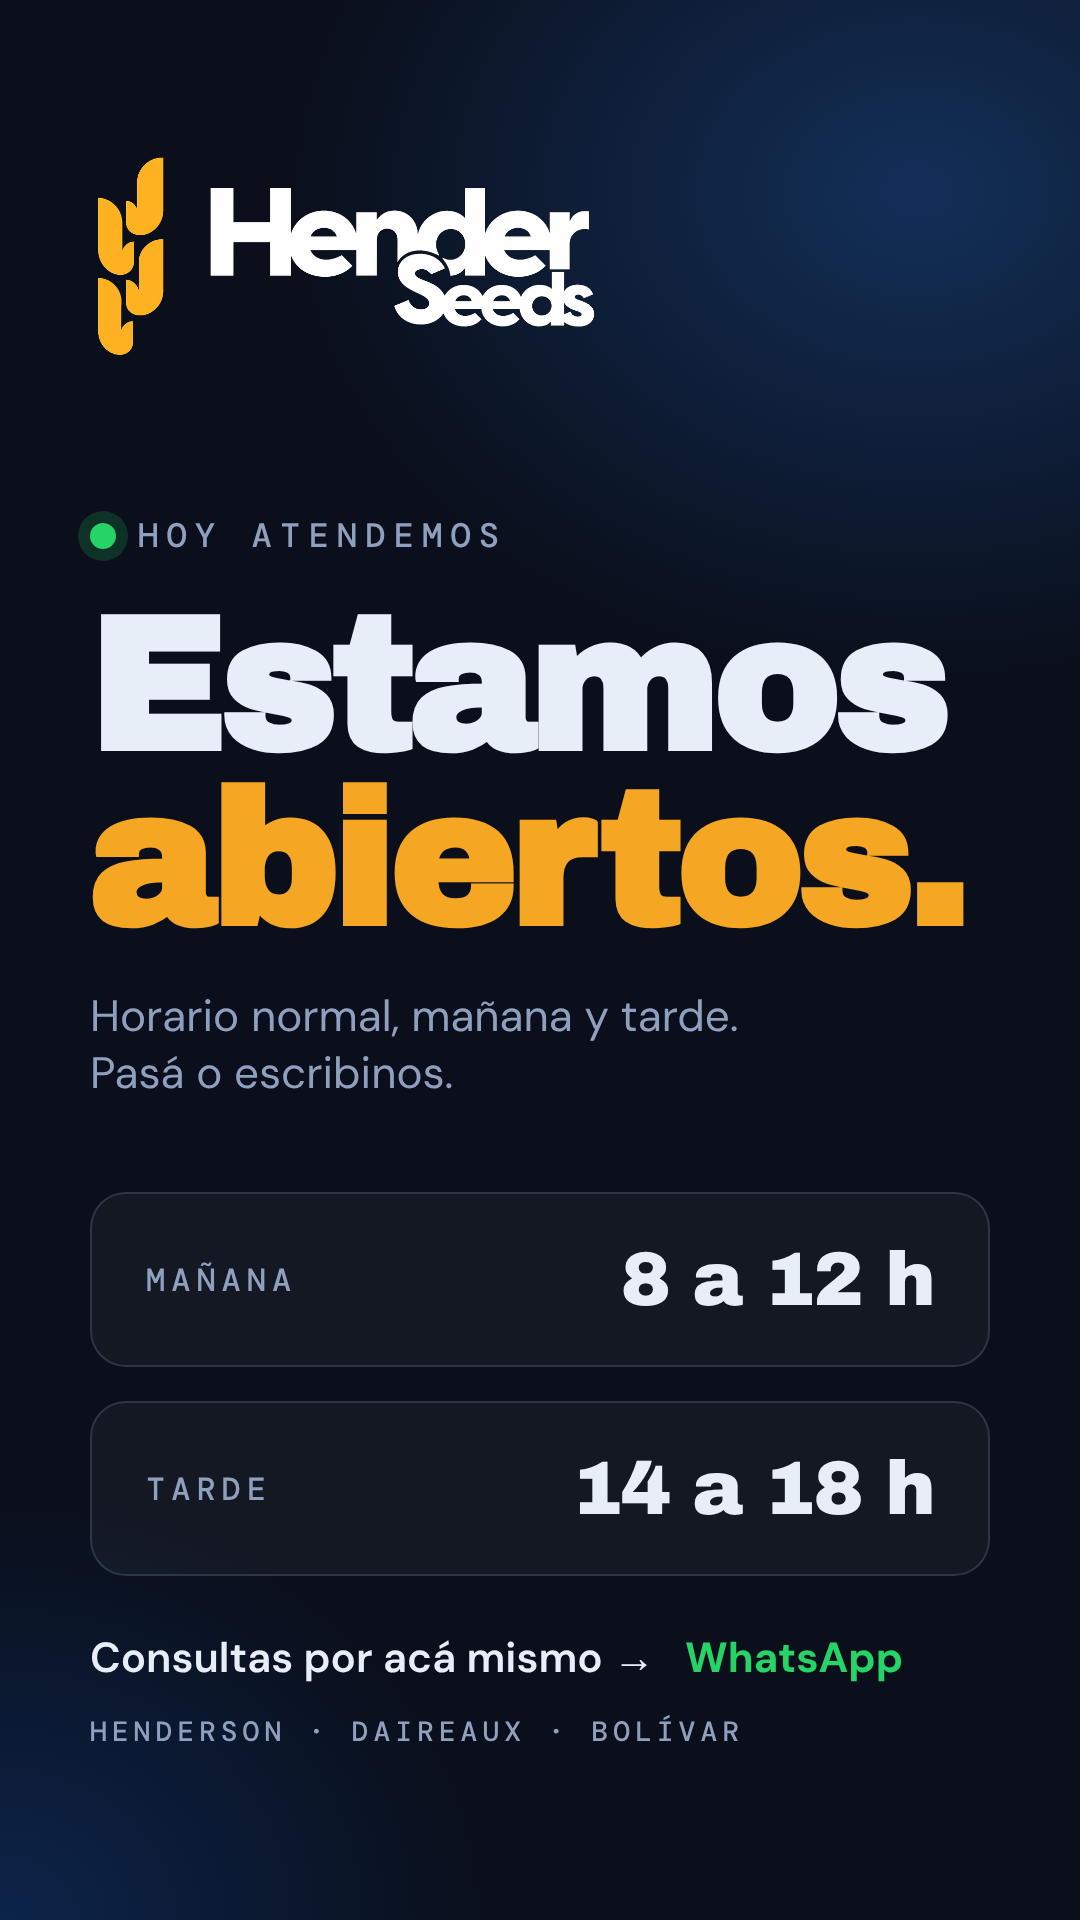
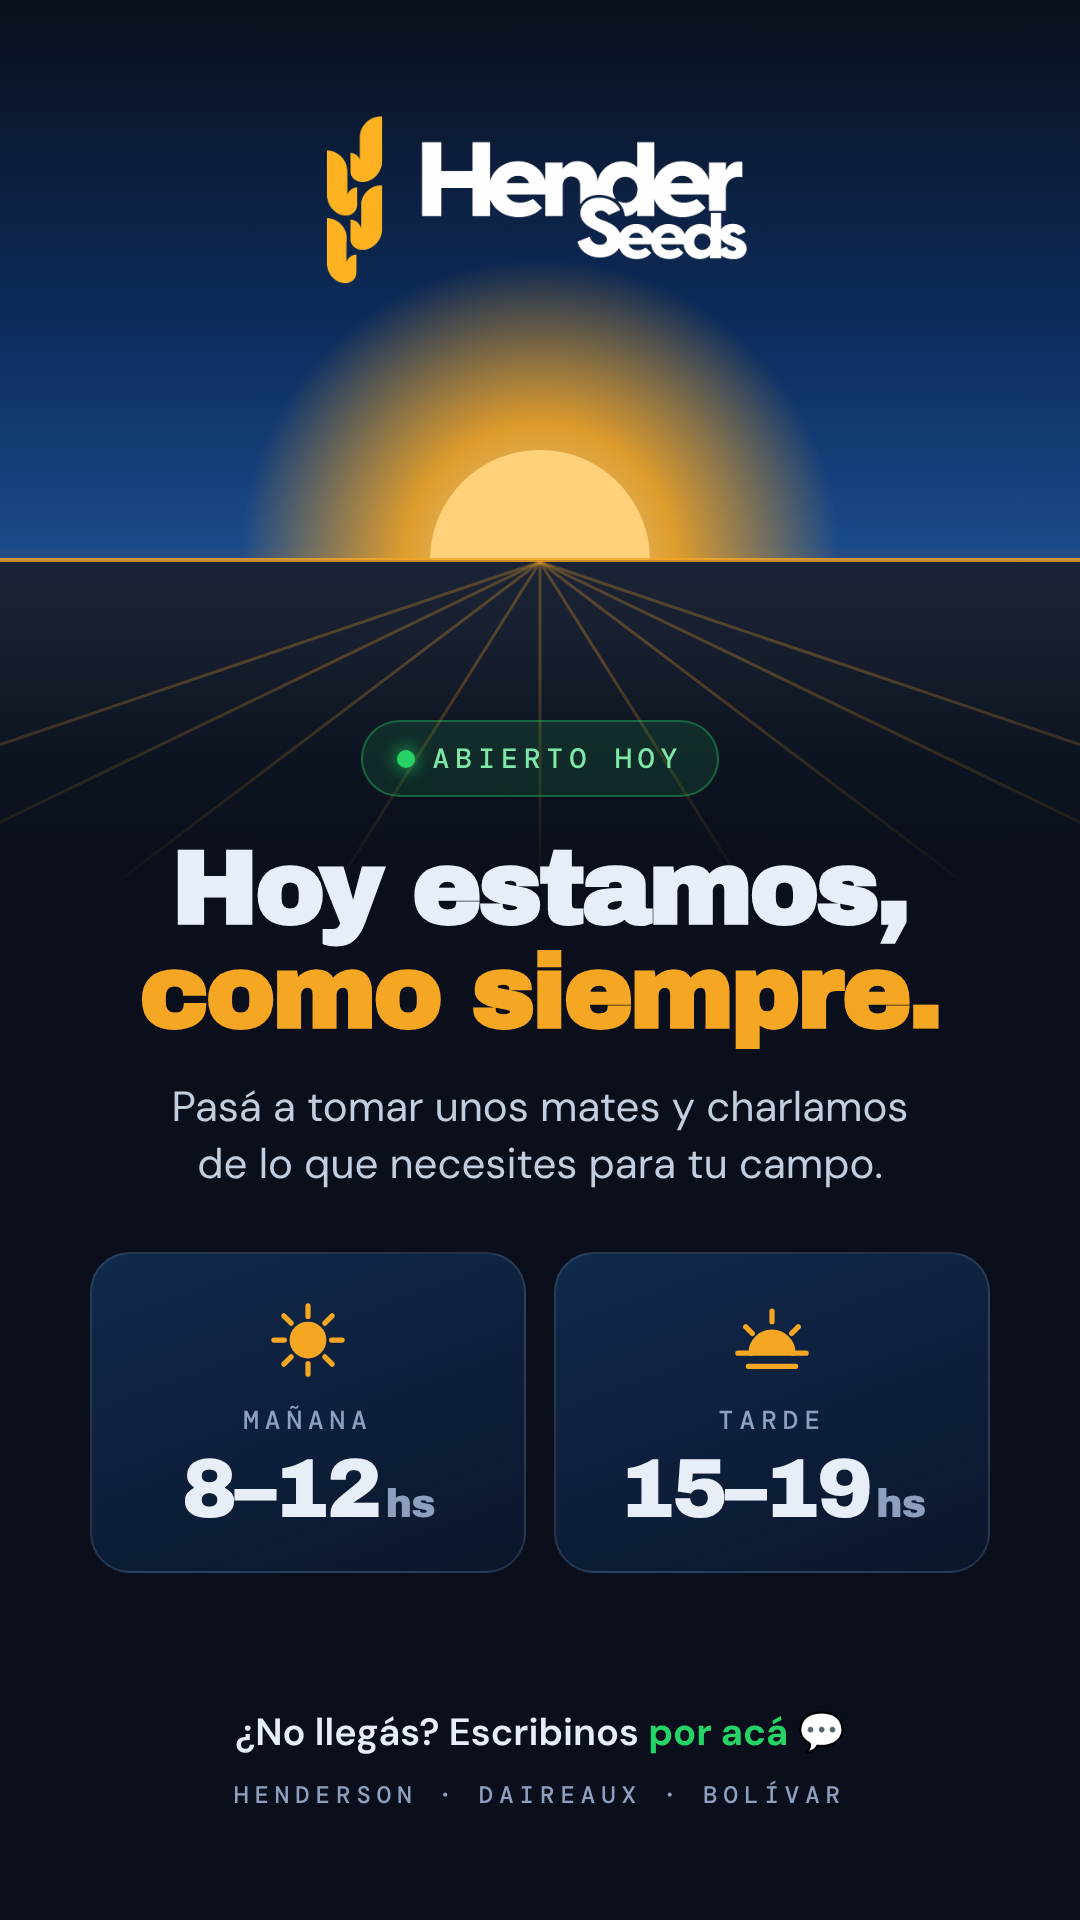
Estado WhatsApp abierto hoy: rediseño + horario 8-12 / 15-19
Claude-Session: https://claude.ai/code/session_01NuVoX9caxrULm3zTXrw5iY

diff --git a/estados/2026-11-11-abierto-hoy.html b/estados/2026-11-11-abierto-hoy.html
@@ -1,37 +1,80 @@
 <!doctype html>
 <html lang="es"><head><meta charset="utf-8">
 <title>Estado WhatsApp — Abierto hoy</title>
-<link href="https://fonts.googleapis.com/css2?family=Archivo+Black&family=DM+Mono:wght@500&family=DM+Sans:wght@400;600;700&display=swap" rel="stylesheet">
+<link href="https://fonts.googleapis.com/css2?family=Archivo+Black&family=DM+Mono:wght@500&family=DM+Sans:wght@400;500;600;700&display=swap" rel="stylesheet">
 <style>
-/* EDITAR HORARIOS ACÁ */
-:root{--bg:#0A0F1B;--navy:#0D2D5E;--mid:#1A4A8A;--amb:#F5A623;--tx:#E8EEF7;--tx2:#8FA0BE;--wa:#25D366}
+:root{--bg:#0A0F1B;--navy:#0D2D5E;--amb:#F5A623;--yel:#F59E0B;--tx:#E8EEF7;--tx2:#8FA0BE;--wa:#25D366}
 *{margin:0;padding:0;box-sizing:border-box}
 body{width:1080px;height:1920px;background:var(--bg);color:var(--tx);font-family:'DM Sans',sans-serif;overflow:hidden;position:relative}
-.glow{position:absolute;inset:0;background:radial-gradient(900px 700px at 85% 10%,rgba(26,74,138,.55),transparent 70%),radial-gradient(700px 600px at 0% 100%,rgba(13,45,94,.7),transparent 70%)}
-.wrap{position:relative;height:100%;display:flex;flex-direction:column;padding:150px 90px 170px}
-.logo{width:520px;}
-.tag{margin-top:150px;font-family:'DM Mono',monospace;font-size:34px;letter-spacing:8px;text-transform:uppercase;color:var(--tx2);display:flex;align-items:center;gap:22px}
-.dot{width:26px;height:26px;border-radius:50%;background:var(--wa);box-shadow:0 0 0 12px rgba(37,211,102,.18)}
-h1{font-family:'Archivo Black',sans-serif;font-size:190px;line-height:.92;letter-spacing:-6px;margin-top:40px}
+.scene{position:absolute;left:0;top:0;width:1080px;height:880px}
+.fade{position:absolute;left:0;top:660px;width:1080px;height:240px;background:linear-gradient(to bottom,rgba(10,15,27,0),var(--bg))}
+.logo{position:absolute;top:110px;left:50%;transform:translateX(-50%);width:440px}
+.content{position:absolute;left:0;right:0;top:720px;padding:0 90px;text-align:center}
+.pill{display:inline-flex;align-items:center;gap:18px;padding:18px 34px;border-radius:999px;background:rgba(37,211,102,.12);border:2px solid rgba(37,211,102,.35);font-family:'DM Mono',monospace;font-size:28px;letter-spacing:6px;text-transform:uppercase;color:#7EE8A8}
+.pill i{width:18px;height:18px;border-radius:50%;background:var(--wa);box-shadow:0 0 18px var(--wa)}
+h1{font-family:'Archivo Black',sans-serif;font-size:104px;line-height:1;letter-spacing:-3px;margin-top:40px}
 h1 span{color:var(--amb)}
-.sub{font-size:44px;color:var(--tx2);margin-top:40px;line-height:1.3}
-.turnos{margin-top:90px;display:flex;flex-direction:column;gap:34px}
-.t{background:rgba(255,255,255,.04);border:2px solid rgba(143,160,190,.22);border-radius:36px;padding:44px 54px;display:flex;justify-content:space-between;align-items:center}
-.t .l{font-family:'DM Mono',monospace;font-size:32px;letter-spacing:6px;text-transform:uppercase;color:var(--tx2)}
-.t .h{font-family:'Archivo Black',sans-serif;font-size:76px;letter-spacing:-2px}
-.cta{margin-top:auto;display:flex;align-items:center;gap:30px;font-size:42px;font-weight:600}
-.cta b{color:var(--wa)}
-.loc{font-family:'DM Mono',monospace;font-size:28px;letter-spacing:5px;color:var(--tx2);text-transform:uppercase;margin-top:28px}
-</style></head><body><div class="glow"></div>
-<div class="wrap">
-  <img class="logo" src="_logo.png" alt="Henderseeds">
-  <div class="tag"><i class="dot"></i>Hoy atendemos</div>
-  <h1>Estamos<br><span>abiertos.</span></h1>
-  <p class="sub">Horario normal, mañana y tarde.<br>Pasá o escribinos.</p>
-  <div class="turnos">
-    <div class="t"><span class="l">Mañana</span><span class="h">8 a 12 h</span></div>
-    <div class="t"><span class="l">Tarde</span><span class="h">14 a 18 h</span></div>
+.sub{font-size:42px;line-height:1.35;color:#C3CEE0;margin-top:34px}
+.hours{margin-top:60px;display:grid;grid-template-columns:1fr 1fr;gap:28px}
+.h{border-radius:40px;padding:44px 20px 40px;background:linear-gradient(160deg,rgba(26,74,138,.45),rgba(13,45,94,.25));border:2px solid rgba(143,160,190,.2)}
+.h svg{width:84px;height:84px}
+.h .l{font-family:'DM Mono',monospace;font-size:26px;letter-spacing:6px;text-transform:uppercase;color:var(--tx2);margin-top:16px}
+.h .t{font-family:'Archivo Black',sans-serif;font-size:84px;letter-spacing:-3px;margin-top:10px;line-height:1}
+.h .t small{font-size:40px;letter-spacing:-1px;color:var(--tx2);margin-left:6px}
+.foot{position:absolute;left:0;right:0;bottom:110px;text-align:center}
+.foot p{font-size:38px;font-weight:600}
+.foot p b{color:var(--wa)}
+.foot .loc{font-family:'DM Mono',monospace;font-size:24px;letter-spacing:6px;text-transform:uppercase;color:var(--tx2);margin-top:22px}
+</style></head><body>
+
+<svg class="scene" viewBox="0 0 1080 880" preserveAspectRatio="none">
+  <defs>
+    <linearGradient id="sky" x1="0" y1="0" x2="0" y2="1">
+      <stop offset="0" stop-color="#0A0F1B"/><stop offset=".38" stop-color="#0D2D5E"/>
+      <stop offset=".62" stop-color="#1A4A8A"/><stop offset=".8" stop-color="#C9792A"/>
+      <stop offset=".9" stop-color="#F5A623"/>
+    </linearGradient>
+    <radialGradient id="sun" cx=".5" cy=".5" r=".5">
+      <stop offset="0" stop-color="#FFE3A3"/><stop offset=".45" stop-color="#F5A623"/><stop offset="1" stop-color="#F5A623" stop-opacity="0"/>
+    </radialGradient>
+    <linearGradient id="field" x1="0" y1="0" x2="0" y2="1">
+      <stop offset="0" stop-color="#1B2436"/><stop offset="1" stop-color="#0A0F1B"/>
+    </linearGradient>
+  </defs>
+  <rect width="1080" height="880" fill="url(#sky)"/>
+  <circle cx="540" cy="560" r="300" fill="url(#sun)" opacity=".9"/>
+  <circle cx="540" cy="560" r="110" fill="#FFD27A"/>
+  <path d="M0 560 L1080 560 L1080 880 L0 880 Z" fill="url(#field)"/>
+  <rect x="0" y="558" width="1080" height="4" fill="#F5A623" opacity=".8"/>
+  <g stroke="#F5A623" stroke-opacity=".28" stroke-width="3" fill="none">
+    <path d="M540 562 L-400 880"/><path d="M540 562 L-120 880"/><path d="M540 562 L120 880"/>
+    <path d="M540 562 L340 880"/><path d="M540 562 L540 880"/><path d="M540 562 L740 880"/>
+    <path d="M540 562 L960 880"/><path d="M540 562 L1200 880"/><path d="M540 562 L1480 880"/>
+  </g>
+</svg>
+<div class="fade"></div>
+<img class="logo" src="_logo.png" alt="Henderseeds">
+
+<div class="content">
+  <div class="pill"><i></i>Abierto hoy</div>
+  <h1>Hoy estamos,<br><span>como siempre.</span></h1>
+  <p class="sub">Pasá a tomar unos mates y charlamos<br>de lo que necesites para tu campo.</p>
+  <div class="hours">
+    <div class="h">
+      <svg viewBox="0 0 64 64" fill="none" stroke="#F5A623" stroke-width="4" stroke-linecap="round"><circle cx="32" cy="32" r="12" fill="#F5A623"/><path d="M32 6v8M32 50v8M6 32h8M50 32h8M13.6 13.6l5.6 5.6M44.8 44.8l5.6 5.6M13.6 50.4l5.6-5.6M44.8 19.2l5.6-5.6"/></svg>
+      <div class="l">Mañana</div>
+      <div class="t">8–12<small>hs</small></div>
+    </div>
+    <div class="h">
+      <svg viewBox="0 0 64 64" fill="none" stroke="#F5A623" stroke-width="4" stroke-linecap="round"><path d="M16 42a16 16 0 0 1 32 0" fill="#F5A623"/><path d="M6 42h52M14 52h36M32 10v8M12 22l5 5M52 22l-5 5"/></svg>
+      <div class="l">Tarde</div>
+      <div class="t">15–19<small>hs</small></div>
+    </div>
   </div>
-  <div class="cta">Consultas por acá mismo → <b>WhatsApp</b></div>
+</div>
+
+<div class="foot">
+  <p>¿No llegás? Escribinos <b>por acá</b> 💬</p>
   <div class="loc">Henderson · Daireaux · Bolívar</div>
-</div></body></html>
+</div>
+</body></html>

diff --git a/contexto/empresa.md b/contexto/empresa.md
@@ -26,7 +26,7 @@
 - Email: **henderseeds@gmail.com**
 - Dirección: Henderson, Buenos Aires, Argentina.
   `[COMPLETAR: dirección exacta / calle y número si se quiere publicar]`
-- Horario de atención: `[COMPLETAR]`
+- Horario de atención: lunes a viernes `[COMPLETAR: confirmar días]`, de 8 a 12 hs y de 15 a 19 hs.
 
 ## Redes sociales
 - Instagram: **@henderseeds** — [instagram.com/henderseeds](https://www.instagram.com/henderseeds/)
